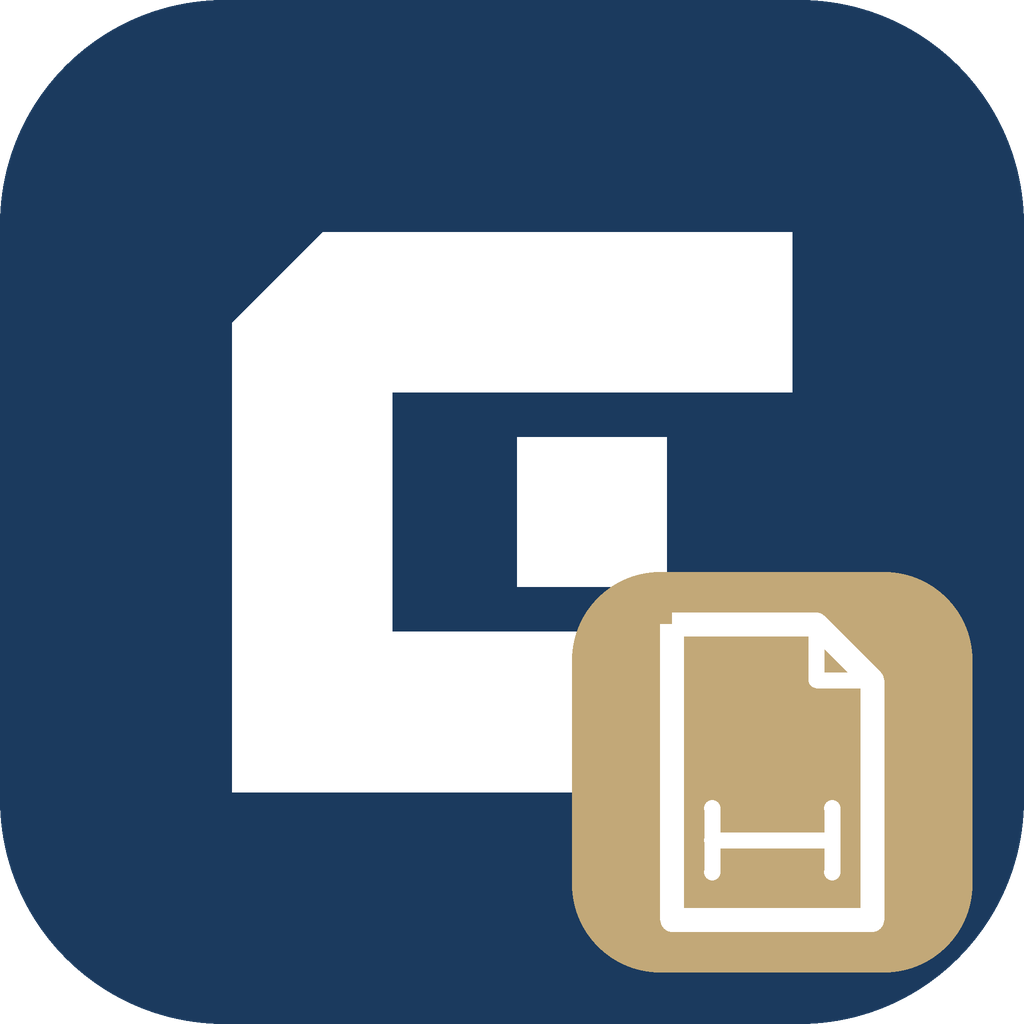
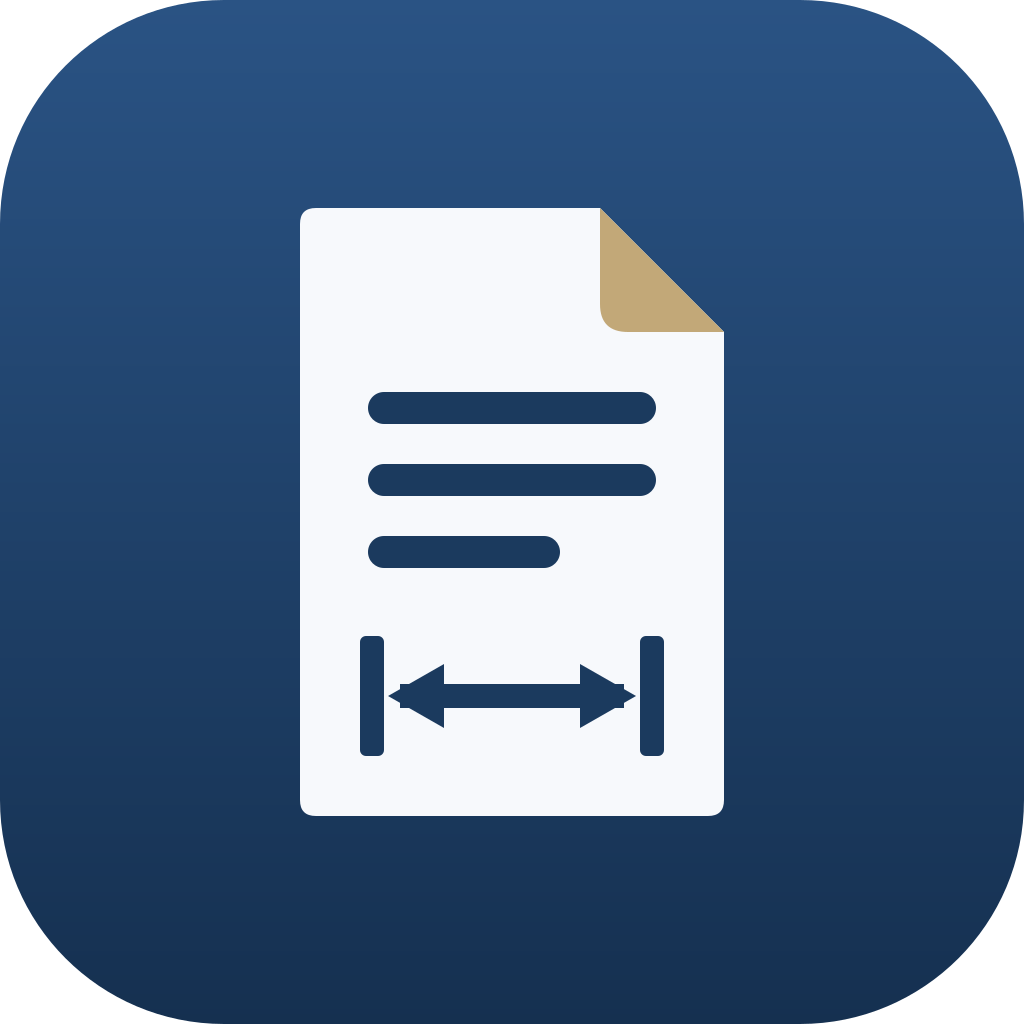
Neues App-Symbol: PDF-Seite mit Eselsohr und Maßlinie
Wie die anderen CivilOps-Apps hat CivilOps PDF jetzt ein eigenes großes
Bild auf dem Navy-Verlauf statt des C mit kleiner Plakette: eine weiße
PDF-Seite mit Eselsohr in Sand und einer Maßlinie. Die Symbole kommen
aus dem gemeinsamen Symbolsatz (assets/civilops/make_icons.py kopiert
sie), das Startbild des Installers ist neu erzeugt.

diff --git a/assets/civilops/make_icons.py b/assets/civilops/make_icons.py
@@ -1,49 +1,37 @@
-"""CivilOps PDF: draw the app icon (same geometry as civilops-pdf.svg) as PNG and ICO files.
+"""CivilOps PDF: take over the app icon (PNG sizes, ICO, SVG) from the CivilOps icon set.
 
-Run from this folder: python make_icons.py
+The CivilOps app icons (since 2026-10-08: a large picture of its own per app on the navy
+gradient; for CivilOps PDF a white PDF sheet with a sand dog-ear and a dimension line) are drawn
+in one place for all CivilOps apps: the project `civilops-app-symbole` (`node erzeuge.mjs`, then
+`python ico.py`). Every size there is rendered on its own. This script copies the PDF set here,
+under the same names:
+
+    python make_icons.py [folder]
+
+`folder` defaults to `civilops-app-symbole/ausgabe/pdf` next to this repository. Afterwards run
+`python packaging/civilops/make_splash.py` and update the hashes in ATTRIBUTION.toml
+(`cargo xtask assets` names the files whose hash changed).
 """
-from PIL import Image, ImageDraw
+import shutil
+import sys
+from pathlib import Path
 
-NAVY = (0x1B, 0x3A, 0x5E, 255)
-SAND = (0xC2, 0xA8, 0x78, 255)
-WHITE = (255, 255, 255, 255)
+HERE = Path(__file__).resolve().parent
+DEFAULT = HERE.parents[2] / "civilops-app-symbole" / "ausgabe" / "pdf"
+NAMES = ["civilops-pdf.svg", "civilops-pdf.ico"] + [f"civilops-pdf-{n}.png" for n in (1024, 512, 256, 128, 64, 48, 32, 24, 16)]
 
 
-def draw(size: int) -> Image.Image:
-    # Drawn at 4x the 512 design grid, then scaled down for smooth edges.
-    k = 4
-    s = 512 * k
-    im = Image.new("RGBA", (s, s), (0, 0, 0, 0))
-    d = ImageDraw.Draw(im)
-    d.rounded_rectangle([0, 0, s - 1, s - 1], radius=112 * k, fill=NAVY)
-
-    def c(x, y):
-        # The C mark: translate(116, 116) scale(4.375) on a 64 grid.
-        return (116 + x * 4.375) * k, (116 + y * 4.375) * k
-
-    d.polygon([c(0, 10.36), c(10.36, 0), c(64, 0), c(64, 18.29), c(18.29, 18.29), c(18.29, 45.71), c(64, 45.71), c(64, 64), c(0, 64)], fill=WHITE)
-    d.rectangle([*c(32.61, 23.47), *c(32.61 + 17.07, 23.47 + 17.06)], fill=WHITE)
-    # Sand badge with a sheet and a dimension line.
-    d.rounded_rectangle([286 * k, 286 * k, 486 * k, 486 * k], radius=44 * k, fill=SAND)
-
-    def p(x, y):
-        return x * k, y * k
-
-    sheet = [p(336, 312), p(408, 312), p(436, 340), p(436, 460), p(336, 460), p(336, 312)]
-    d.line(sheet, fill=WHITE, width=12 * k, joint="curve")
-    d.line([p(408, 312), p(408, 340), p(436, 340)], fill=WHITE, width=8 * k, joint="curve")
-    for a, b in [((356, 420), (416, 420)), ((356, 404), (356, 436)), ((416, 404), (416, 436))]:
-        d.line([p(*a), p(*b)], fill=WHITE, width=8 * k)
-        for q in (a, b):
-            r = 4 * k
-            d.ellipse([q[0] * k - r, q[1] * k - r, q[0] * k + r, q[1] * k + r], fill=WHITE)
-    return im.resize((size, size), Image.LANCZOS)
+def main() -> int:
+    source = Path(sys.argv[1]) if len(sys.argv) > 1 else DEFAULT
+    missing = [n for n in NAMES if not (source / n).is_file()]
+    if missing:
+        print(f"{source}: missing {', '.join(missing)}", file=sys.stderr)
+        return 1
+    for n in NAMES:
+        shutil.copyfile(source / n, HERE / n)
+    print(f"{len(NAMES)} icon files copied from {source}")
+    return 0
 
 
 if __name__ == "__main__":
-    big = draw(1024)
-    big.save("civilops-pdf-1024.png")
-    for n in (512, 256, 128, 64, 48, 32, 24, 16):
-        draw(n).save(f"civilops-pdf-{n}.png")
-    big.save("civilops-pdf.ico", sizes=[(16, 16), (24, 24), (32, 32), (48, 48), (64, 64), (128, 128), (256, 256)])
-    print("icons written")
+    sys.exit(main())

diff --git a/ATTRIBUTION.md b/ATTRIBUTION.md
@@ -202,17 +202,17 @@ Every asset CivilOps PDF includes, bundles or uses to build its published materi
 | `vendor/hayro-interpret/assets/FoxitSymbol.pfb` | FoxitSymbol (standard-14 substitute font) | Foxit Software Inc. / PDFium Authors | BSD-3-Clause | https://pdfium.googlesource.com/pdfium (via hayro-interpret 0.7.0 assets/) | Renders non-embedded standard-14 fonts (vendored hayro-interpret) |
 | `vendor/hayro-interpret/assets/CGATS001Compat-v2-micro.icc` | CGATS001Compat v2 micro ICC profile | Clinton Ingram (saucecontrol/Compact-ICC-Profiles) | CC0-1.0 | https://github.com/saucecontrol/Compact-ICC-Profiles | Default CMYK colour conversion (vendored hayro-interpret) |
 | `vendor/hayro-interpret/assets/LAB.icc` | Lab abstract ICC profile | The Hayro Authors (generated with LittleCMS 2) | MIT OR Apache-2.0 | https://github.com/LaurenzV/hayro (hayro-interpret 0.7.0 assets/) | Lab colour space conversion (vendored hayro-interpret) |
-| `assets/civilops/civilops-pdf.svg` | CivilOps PDF app icon (master vector) | CivilOps | LicenseRef-CivilOps-Trademark | Contributor-original for CivilOps (drawn 2026-10-07 after the CivilOps CAD icon; rendered by assets/civilops/make_icons.py) | Master artwork of the app icon; the CivilOps mark in the UI (crates/ui-egui/src/widgets.rs: About dialog, home screen) |
-| `assets/civilops/civilops-pdf-1024.png` | CivilOps PDF app icon, 1024 px | CivilOps | LicenseRef-CivilOps-Trademark | Contributor-original for CivilOps (drawn 2026-10-07 after the CivilOps CAD icon; rendered by assets/civilops/make_icons.py) | Window and Dock icon on macOS (apps/printcraft/src/main.rs); source of the installer splash |
-| `assets/civilops/civilops-pdf-512.png` | CivilOps PDF app icon, 512 px | CivilOps | LicenseRef-CivilOps-Trademark | Contributor-original for CivilOps (drawn 2026-10-07 after the CivilOps CAD icon; rendered by assets/civilops/make_icons.py) | Rendered size for packaging and documents (not used at runtime) |
-| `assets/civilops/civilops-pdf-256.png` | CivilOps PDF app icon, 256 px | CivilOps | LicenseRef-CivilOps-Trademark | Contributor-original for CivilOps (drawn 2026-10-07 after the CivilOps CAD icon; rendered by assets/civilops/make_icons.py) | Window and taskbar icon on Windows and Linux (apps/printcraft/src/main.rs) |
-| `assets/civilops/civilops-pdf-128.png` | CivilOps PDF app icon, 128 px | CivilOps | LicenseRef-CivilOps-Trademark | Contributor-original for CivilOps (drawn 2026-10-07 after the CivilOps CAD icon; rendered by assets/civilops/make_icons.py) | Rendered size for packaging and documents (not used at runtime) |
-| `assets/civilops/civilops-pdf-64.png` | CivilOps PDF app icon, 64 px | CivilOps | LicenseRef-CivilOps-Trademark | Contributor-original for CivilOps (drawn 2026-10-07 after the CivilOps CAD icon; rendered by assets/civilops/make_icons.py) | Rendered size for packaging and documents (not used at runtime) |
-| `assets/civilops/civilops-pdf-48.png` | CivilOps PDF app icon, 48 px | CivilOps | LicenseRef-CivilOps-Trademark | Contributor-original for CivilOps (drawn 2026-10-07 after the CivilOps CAD icon; rendered by assets/civilops/make_icons.py) | Rendered size for packaging and documents (not used at runtime) |
-| `assets/civilops/civilops-pdf-32.png` | CivilOps PDF app icon, 32 px | CivilOps | LicenseRef-CivilOps-Trademark | Contributor-original for CivilOps (drawn 2026-10-07 after the CivilOps CAD icon; rendered by assets/civilops/make_icons.py) | Rendered size for packaging and documents (not used at runtime) |
-| `assets/civilops/civilops-pdf-24.png` | CivilOps PDF app icon, 24 px | CivilOps | LicenseRef-CivilOps-Trademark | Contributor-original for CivilOps (drawn 2026-10-07 after the CivilOps CAD icon; rendered by assets/civilops/make_icons.py) | Rendered size for packaging and documents (not used at runtime) |
-| `assets/civilops/civilops-pdf-16.png` | CivilOps PDF app icon, 16 px | CivilOps | LicenseRef-CivilOps-Trademark | Contributor-original for CivilOps (drawn 2026-10-07 after the CivilOps CAD icon; rendered by assets/civilops/make_icons.py) | Rendered size for packaging and documents (not used at runtime) |
-| `assets/civilops/civilops-pdf.ico` | CivilOps PDF app icon (Windows icon file, 16 to 256 px) | CivilOps | LicenseRef-CivilOps-Trademark | Contributor-original for CivilOps (drawn 2026-10-07 after the CivilOps CAD icon; rendered by assets/civilops/make_icons.py) | Icon of civilops-pdf.exe (apps/printcraft/build.rs), of the installer and its shortcuts (packaging/civilops/release.py) |
+| `assets/civilops/civilops-pdf.svg` | CivilOps PDF app icon (master vector) | CivilOps | LicenseRef-CivilOps-Trademark | Contributor-original for CivilOps (CivilOps app icon set, version of 2026-10-08: a white PDF sheet with a sand dog-ear and a dimension line on the navy gradient; drawn with the other CivilOps app icons and copied here by assets/civilops/make_icons.py) | Master artwork of the app icon; the CivilOps mark in the UI (crates/ui-egui/src/widgets.rs: About dialog, home screen) |
+| `assets/civilops/civilops-pdf-1024.png` | CivilOps PDF app icon, 1024 px | CivilOps | LicenseRef-CivilOps-Trademark | Contributor-original for CivilOps (CivilOps app icon set, version of 2026-10-08: a white PDF sheet with a sand dog-ear and a dimension line on the navy gradient; drawn with the other CivilOps app icons and copied here by assets/civilops/make_icons.py) | Window and Dock icon on macOS (apps/printcraft/src/main.rs); source of the installer splash |
+| `assets/civilops/civilops-pdf-512.png` | CivilOps PDF app icon, 512 px | CivilOps | LicenseRef-CivilOps-Trademark | Contributor-original for CivilOps (CivilOps app icon set, version of 2026-10-08: a white PDF sheet with a sand dog-ear and a dimension line on the navy gradient; drawn with the other CivilOps app icons and copied here by assets/civilops/make_icons.py) | Rendered size for packaging and documents (not used at runtime) |
+| `assets/civilops/civilops-pdf-256.png` | CivilOps PDF app icon, 256 px | CivilOps | LicenseRef-CivilOps-Trademark | Contributor-original for CivilOps (CivilOps app icon set, version of 2026-10-08: a white PDF sheet with a sand dog-ear and a dimension line on the navy gradient; drawn with the other CivilOps app icons and copied here by assets/civilops/make_icons.py) | Window and taskbar icon on Windows and Linux (apps/printcraft/src/main.rs) |
+| `assets/civilops/civilops-pdf-128.png` | CivilOps PDF app icon, 128 px | CivilOps | LicenseRef-CivilOps-Trademark | Contributor-original for CivilOps (CivilOps app icon set, version of 2026-10-08: a white PDF sheet with a sand dog-ear and a dimension line on the navy gradient; drawn with the other CivilOps app icons and copied here by assets/civilops/make_icons.py) | Rendered size for packaging and documents (not used at runtime) |
+| `assets/civilops/civilops-pdf-64.png` | CivilOps PDF app icon, 64 px | CivilOps | LicenseRef-CivilOps-Trademark | Contributor-original for CivilOps (CivilOps app icon set, version of 2026-10-08: a white PDF sheet with a sand dog-ear and a dimension line on the navy gradient; drawn with the other CivilOps app icons and copied here by assets/civilops/make_icons.py) | Rendered size for packaging and documents (not used at runtime) |
+| `assets/civilops/civilops-pdf-48.png` | CivilOps PDF app icon, 48 px | CivilOps | LicenseRef-CivilOps-Trademark | Contributor-original for CivilOps (CivilOps app icon set, version of 2026-10-08: a white PDF sheet with a sand dog-ear and a dimension line on the navy gradient; drawn with the other CivilOps app icons and copied here by assets/civilops/make_icons.py) | Rendered size for packaging and documents (not used at runtime) |
+| `assets/civilops/civilops-pdf-32.png` | CivilOps PDF app icon, 32 px | CivilOps | LicenseRef-CivilOps-Trademark | Contributor-original for CivilOps (CivilOps app icon set, version of 2026-10-08: a white PDF sheet with a sand dog-ear and a dimension line on the navy gradient; drawn with the other CivilOps app icons and copied here by assets/civilops/make_icons.py) | Rendered size for packaging and documents (not used at runtime) |
+| `assets/civilops/civilops-pdf-24.png` | CivilOps PDF app icon, 24 px | CivilOps | LicenseRef-CivilOps-Trademark | Contributor-original for CivilOps (CivilOps app icon set, version of 2026-10-08: a white PDF sheet with a sand dog-ear and a dimension line on the navy gradient; drawn with the other CivilOps app icons and copied here by assets/civilops/make_icons.py) | Rendered size for packaging and documents (not used at runtime) |
+| `assets/civilops/civilops-pdf-16.png` | CivilOps PDF app icon, 16 px | CivilOps | LicenseRef-CivilOps-Trademark | Contributor-original for CivilOps (CivilOps app icon set, version of 2026-10-08: a white PDF sheet with a sand dog-ear and a dimension line on the navy gradient; drawn with the other CivilOps app icons and copied here by assets/civilops/make_icons.py) | Rendered size for packaging and documents (not used at runtime) |
+| `assets/civilops/civilops-pdf.ico` | CivilOps PDF app icon (Windows icon file, 16 to 256 px) | CivilOps | LicenseRef-CivilOps-Trademark | Contributor-original for CivilOps (CivilOps app icon set, version of 2026-10-08: a white PDF sheet with a sand dog-ear and a dimension line on the navy gradient; drawn with the other CivilOps app icons and copied here by assets/civilops/make_icons.py) | Icon of civilops-pdf.exe (apps/printcraft/build.rs), of the installer and its shortcuts (packaging/civilops/release.py) |
 | `packaging/civilops/splash.png` | CivilOps PDF installer splash | CivilOps | LicenseRef-CivilOps-Trademark | Contributor-original for CivilOps (packaging/civilops/make_splash.py, from civilops-pdf-1024.png with text set in Inter) | Splash screen of the Velopack installer (packaging/civilops/release.py) |
 | `assets/icons/pin.svg` | Lucide icon "pin" | Lucide Contributors (portions Cole Bemis, Feather) | ISC | https://github.com/lucide-icons/lucide (npm lucide-static 1.49.0, icons/pin.svg) | UI icon, embedded via crates/ui-egui/src/icon_data.rs |
 | `assets/icons/move-right.svg` | Lucide icon "move-right" | Lucide Contributors (portions Cole Bemis, Feather) | ISC | https://github.com/lucide-icons/lucide (npm lucide-static 1.49.0, icons/move-right.svg) | UI icon, embedded via crates/ui-egui/src/icon_data.rs |
